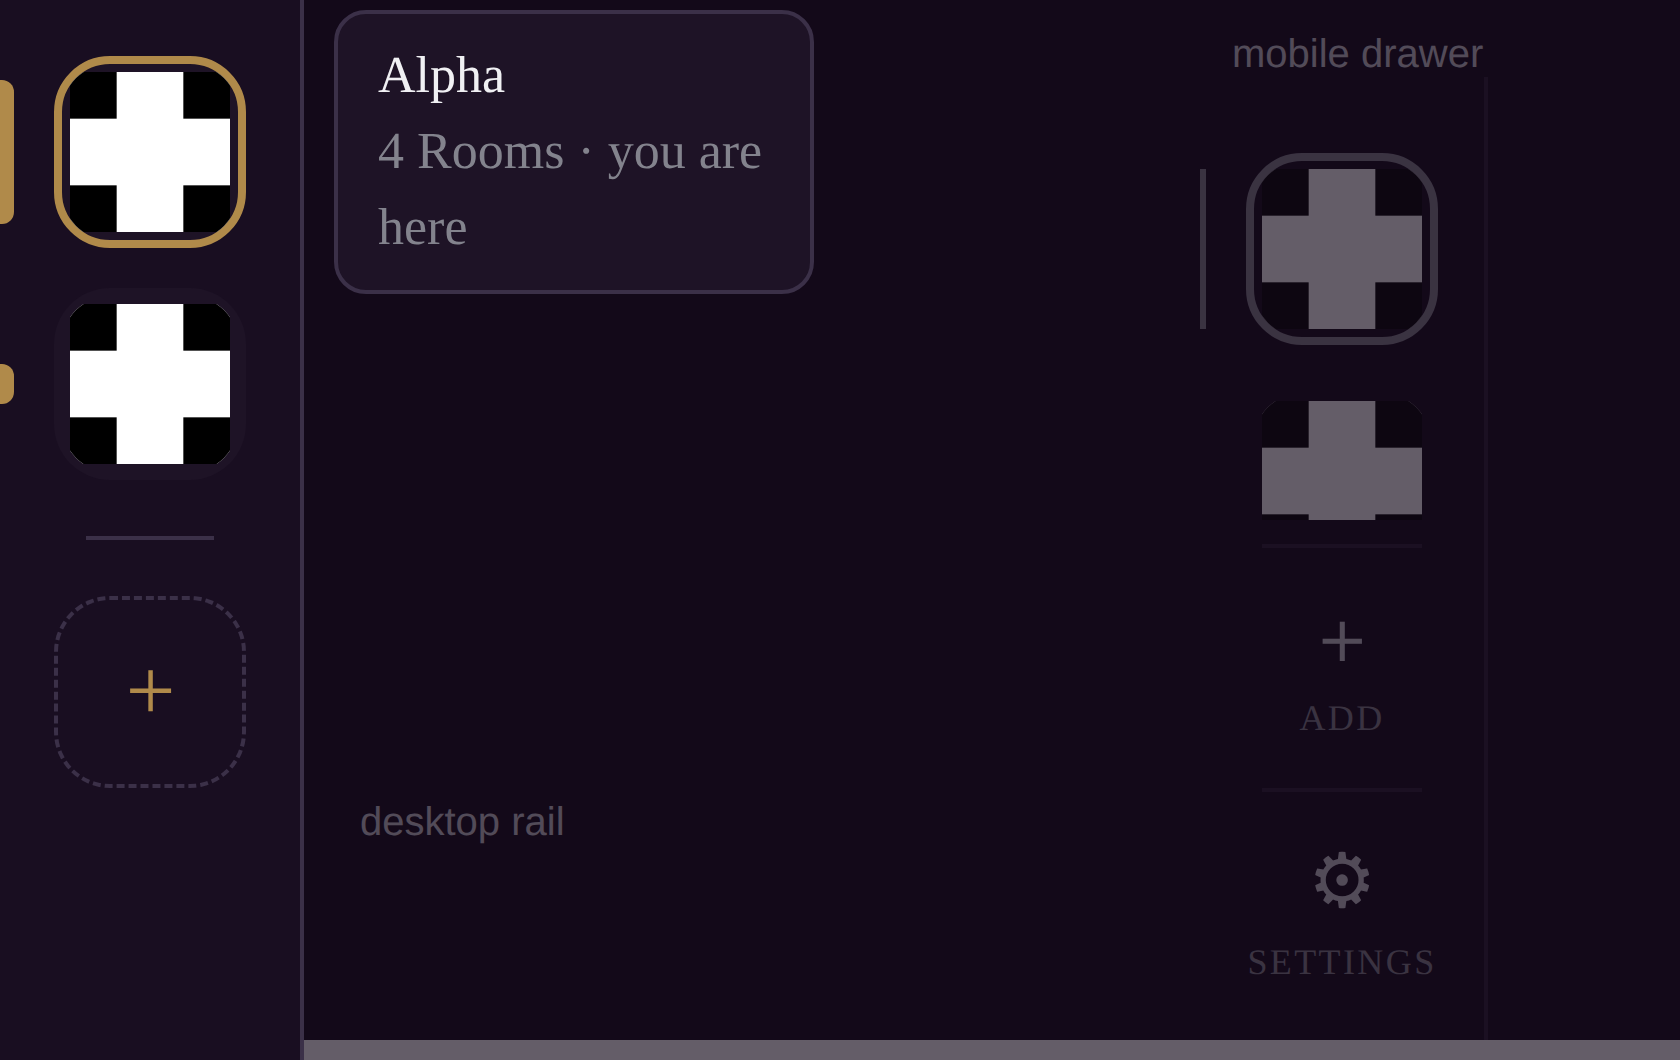
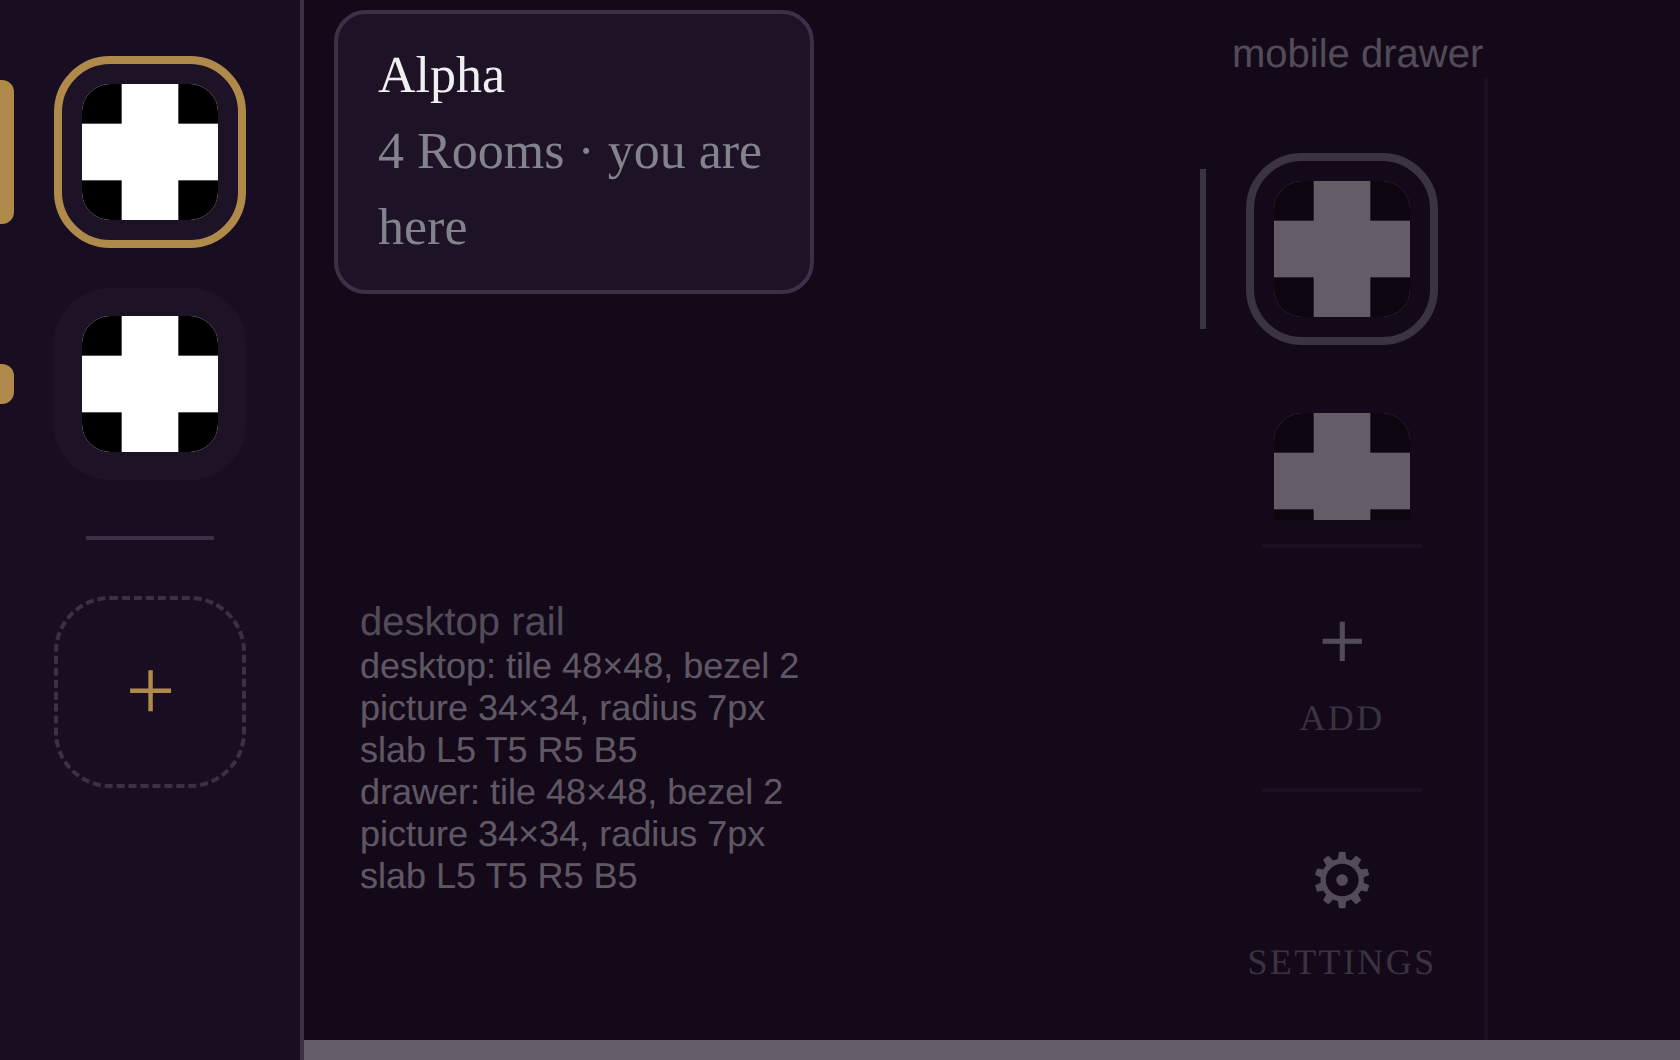
fix(mobile): seat the Workspace picture inside the tile bezel instead of clipping it
Owner direction after reviewing a to-scale mock: the picture sits INSIDE the
bezel like a picture in a frame, whole picture visible, slab showing all the
way round. Clipping its corners against the bezel is not wanted.

Both rails now use the same numbers on the same 48dp tile with its 2dp brass
bezel, 14dp outer and 12dp inner radius:

  - the picture is 34dp square and centred, so 5dp of slab shows on every side
  - its own corners take 7dp — the inner radius less that margin — so its curve
    stays parallel to the bezel's the whole way round

No corner of the picture touches the bezel on either surface. The generated
Workspace cypher draws well inside the seat, so it keeps the square silhouette
it is meant to have, and IdentityMark's face-plate clip is untouched.

The render proof now also measures what painted — tile size, bezel width,
picture size and radius, and the slab margin on each side — so the geometry
is readable in the capture rather than eyeballed.

diff --git a/apps/mobile/sources/components/buzz/CommunityRail.tsx b/apps/mobile/sources/components/buzz/CommunityRail.tsx
@@ -21,14 +21,24 @@ const DRAWER_WIDTH = 72;
 const DRAWER_DURATION_MS = 180;
 
 /**
- * The Workspace tile bezel. The picture inside is square, so the tile has to
- * clip it or its corners paint outside the bezel. A border eats into the
- * curve, so the radius the content is clipped at is the outer radius LESS the
- * border width, not the outer radius.
+ * The Workspace tile bezel. A border eats into the curve, so the radius inside
+ * the bezel is the outer radius LESS the border width. Same numbers as the
+ * desktop rail (`DesktopWorkspaceRail`), which wears this same tile.
  */
+const TILE_SIZE = 48;
 const TILE_RADIUS = 14;
 const TILE_BORDER_WIDTH = 2;
 const TILE_INNER_RADIUS = TILE_RADIUS - TILE_BORDER_WIDTH;
+/**
+ * The picture is seated in the bezel like a picture in a frame, not clipped
+ * against it: the whole picture stays visible with slab showing all the way
+ * round, and no corner of it touches the brass. Its own radius is the inner
+ * radius less that margin, which keeps its curve parallel to the bezel's the
+ * whole way round instead of tightening into the corners.
+ */
+const TILE_PICTURE_SIZE = 34;
+const TILE_PICTURE_MARGIN = (TILE_SIZE - TILE_BORDER_WIDTH * 2 - TILE_PICTURE_SIZE) / 2;
+const TILE_PICTURE_RADIUS = TILE_INNER_RADIUS - TILE_PICTURE_MARGIN;
 
 export type CommunityRailItem = {
   communityId: string;
@@ -230,26 +240,26 @@ export function CommunityRail({
                   style={[styles.columnLogoPlate, active && styles.columnLogoPlateSelected]}
                   testID={`workspace-tile-plate-${community.communityId}`}
                 >
-                  <View style={styles.tileClip}>
+                  <View style={styles.tilePictureSeat}>
                     <IdentityMark
                       kind="workspace"
                       seed={community?.communityId ?? 'workspace-loading'}
                       avatarUrl={community?.avatar}
                       name={community?.name}
-                      size={40}
+                      size={TILE_PICTURE_SIZE}
                       selected={active}
                       testID={`workspace-avatar-${community.communityId}`}
                     />
                   </View>
                 </View>
               ) : (
-                <View style={styles.tileClip}>
+                <View style={styles.tilePictureSeat}>
                   <IdentityMark
                     kind="workspace"
                     seed={community?.communityId ?? 'workspace-loading'}
                     avatarUrl={community?.avatar}
                     name={community?.name}
-                    size={40}
+                    size={TILE_PICTURE_SIZE}
                     selected={active}
                     testID={`workspace-avatar-${community.communityId}`}
                   />
@@ -572,23 +582,24 @@ const styles = StyleSheet.create((theme) => {
       alignItems: 'flex-start',
     },
     railButton: {
-      width: 48,
-      height: 48,
+      width: TILE_SIZE,
+      height: TILE_SIZE,
       alignItems: 'center',
       justifyContent: 'center',
       borderRadius: TILE_RADIUS,
       borderWidth: TILE_BORDER_WIDTH,
       borderColor: 'transparent',
     },
-    /* The bezel's content box. A Workspace picture is square, so without this
-     * its corners paint outside the tile. The clip follows the border's INNER
-     * curve, which is the outer radius less the border width. */
-    tileClip: {
-      alignSelf: 'stretch',
-      flex: 1,
+    /* The picture's seat: square, centred, and rounded parallel to the bezel.
+     * It rounds the picture's own corners; the generated Workspace cypher draws
+     * well inside this box, so it keeps the square silhouette it is meant to
+     * have. */
+    tilePictureSeat: {
+      width: TILE_PICTURE_SIZE,
+      height: TILE_PICTURE_SIZE,
       alignItems: 'center',
       justifyContent: 'center',
-      borderRadius: TILE_INNER_RADIUS,
+      borderRadius: TILE_PICTURE_RADIUS,
       overflow: 'hidden',
     },
     columnButton: {

diff --git a/apps/mobile/sources/components/buzz/DesktopWorkspaceRail.tsx b/apps/mobile/sources/components/buzz/DesktopWorkspaceRail.tsx
@@ -16,20 +16,23 @@ const RAIL_WIDTH = 76;
 const TILE_SIZE = 48;
 
 /**
- * The Workspace tile bezel. The picture inside is square, so the tile has to
- * clip it or its corners stay hard while the tile is round. A border eats into
- * the curve, so the radius the content is clipped at is the outer radius LESS
- * the border width, not the outer radius. Same three numbers as the mobile
- * drawer (`CommunityRail`), which wears this same tile.
+ * The Workspace tile bezel. A border eats into the curve, so the radius inside
+ * the bezel is the outer radius LESS the border width. Same numbers as the
+ * mobile drawer (`CommunityRail`), which wears this same tile.
  */
 const TILE_RADIUS = 14;
 const TILE_BORDER_WIDTH = 2;
 const TILE_INNER_RADIUS = TILE_RADIUS - TILE_BORDER_WIDTH;
-/** The bezel's content box: the tile less its border on both edges. */
-const TILE_CLIP_SIZE = TILE_SIZE - TILE_BORDER_WIDTH * 2;
-/** The mark inside that box, at the drawer's 40-in-44 geometry: a picture wide
- *  enough to meet the bezel, which is what gives the clip something to cut. */
-const TILE_MARK_SIZE = 40;
+/**
+ * The picture is seated in the bezel like a picture in a frame, not clipped
+ * against it: the whole picture stays visible with slab showing all the way
+ * round, and no corner of it touches the brass. Its own radius is the inner
+ * radius less that margin, which keeps its curve parallel to the bezel's the
+ * whole way round instead of tightening into the corners.
+ */
+const TILE_PICTURE_SIZE = 34;
+const TILE_PICTURE_MARGIN = (TILE_SIZE - TILE_BORDER_WIDTH * 2 - TILE_PICTURE_SIZE) / 2;
+const TILE_PICTURE_RADIUS = TILE_INNER_RADIUS - TILE_PICTURE_MARGIN;
 
 export type DesktopWorkspaceRailItem = {
   readonly id: string;
@@ -186,13 +189,13 @@ export function DesktopWorkspaceRail({
                     ]}
                     testID={`desktop-workspace-tile-${workspace.id}`}
                   >
-                    <View style={styles.tileClip}>
+                    <View style={styles.tilePictureSeat}>
                       <IdentityMark
                         avatarUrl={workspace.avatar}
                         kind="workspace"
                         name={workspace.name}
                         seed={workspace.id}
-                        size={TILE_MARK_SIZE}
+                        size={TILE_PICTURE_SIZE}
                         testID={`desktop-workspace-mark-${workspace.id}`}
                       />
                     </View>
@@ -289,17 +292,17 @@ const stylesheet = StyleSheet.create((theme) => {
       backgroundColor: hull.bgHighlight,
       outlineStyle: 'none',
     } as any,
-    /* The bezel's content box. A Workspace picture is square, so without this
-     * its corners stay hard inside a round tile. The clip follows the border's
-     * INNER curve, which is the outer radius less the border width. It is the
-     * tile's content box whether or not the tile is currently wearing its
-     * bezel, so the mark does not move when a Workspace becomes current. */
-    tileClip: {
-      width: TILE_CLIP_SIZE,
-      height: TILE_CLIP_SIZE,
+    /* The picture's seat: square, centred, and rounded parallel to the bezel.
+     * It rounds the picture's own corners; the generated Workspace cypher draws
+     * well inside this box, so it keeps the square silhouette it is meant to
+     * have. Centred in the tile, so the seat does not move when a Workspace
+     * becomes current and the tile puts its bezel on. */
+    tilePictureSeat: {
+      width: TILE_PICTURE_SIZE,
+      height: TILE_PICTURE_SIZE,
       alignItems: 'center',
       justifyContent: 'center',
-      borderRadius: TILE_INNER_RADIUS,
+      borderRadius: TILE_PICTURE_RADIUS,
       overflow: 'hidden',
     },
     currentTile: { borderWidth: 2, borderColor: hull.accent },

diff --git a/apps/mobile/sources/components/buzz/workspace-nav-parity.contract.test.ts b/apps/mobile/sources/components/buzz/workspace-nav-parity.contract.test.ts
@@ -8,14 +8,12 @@ const desktopRail = readFileSync(new URL('./DesktopWorkspaceRail.tsx', import.me
 describe('workspace nav parity (mobile drawer ↔ desktop rail)', () => {
   it('draws the mobile drawer tile with the desktop radius and brass bezel', () => {
     // 48px tile, 14px radius — the desktop tile geometry, named once here
-    // because the square picture inside has to be clipped to the border's
-    // inner curve and the two numbers must not be able to drift apart.
+    // because the picture seated inside it is measured off the border's inner
+    // curve and the two numbers must not be able to drift apart.
     expect(rail).toContain('const TILE_RADIUS = 14');
     expect(rail).toContain('const TILE_BORDER_WIDTH = 2');
     expect(rail).toContain('const TILE_INNER_RADIUS = TILE_RADIUS - TILE_BORDER_WIDTH');
     expect(rail).toContain('borderRadius: TILE_RADIUS');
-    expect(rail).toContain('borderRadius: TILE_INNER_RADIUS');
-    expect(rail).toContain("overflow: 'hidden'");
     // The current workspace wears the 2px brass bezel; idle tiles sit at
     // full strength (no opacity fade — the bezel is the whole story).
     expect(rail).toContain('railButtonCurrent: {\n      borderWidth: 2,\n      borderColor: groknight.selectedBorder,');
@@ -41,12 +39,25 @@ describe('workspace nav parity (mobile drawer ↔ desktop rail)', () => {
     expect(desktopRail).toContain('currentTile: { borderWidth: 2, borderColor: hull.accent }');
   });
 
-  it('clips the desktop rail picture to the same bezel the drawer clips to', () => {
-    // Both rails wear the one tile, so both name the same three numbers and
-    // clip their square Workspace picture to the border's inner curve.
-    expect(desktopRail).toContain('const TILE_BORDER_WIDTH = 2');
-    expect(desktopRail).toContain('const TILE_INNER_RADIUS = TILE_RADIUS - TILE_BORDER_WIDTH');
-    expect(desktopRail).toContain('borderRadius: TILE_INNER_RADIUS');
-    expect(desktopRail).toContain("overflow: 'hidden'");
+  it('seats the Workspace picture inside the bezel identically on both rails', () => {
+    // A picture in a frame, not a picture cropped by one: 34px square centred
+    // in the 44px box inside the bezel leaves 5px of slab on every side, and
+    // the picture's own 7px radius (12 - 5) keeps its curve parallel to the
+    // bezel's. Both rails wear the one tile, so both name the same numbers.
+    for (const source of [rail, desktopRail]) {
+      expect(source).toContain('const TILE_BORDER_WIDTH = 2');
+      expect(source).toContain('const TILE_INNER_RADIUS = TILE_RADIUS - TILE_BORDER_WIDTH');
+      expect(source).toContain('const TILE_PICTURE_SIZE = 34');
+      expect(source).toContain(
+        'const TILE_PICTURE_MARGIN = (TILE_SIZE - TILE_BORDER_WIDTH * 2 - TILE_PICTURE_SIZE) / 2',
+      );
+      expect(source).toContain(
+        'const TILE_PICTURE_RADIUS = TILE_INNER_RADIUS - TILE_PICTURE_MARGIN',
+      );
+      expect(source).toContain('borderRadius: TILE_PICTURE_RADIUS');
+      expect(source).toContain("overflow: 'hidden'");
+      // The old treatment cropped the picture against the bezel itself.
+      expect(source).not.toContain('borderRadius: TILE_INNER_RADIUS,');
+    }
   });
 });

diff --git a/apps/mobile/scripts/workspace-picture-clip-proof.tsx b/apps/mobile/scripts/workspace-picture-clip-proof.tsx
@@ -25,6 +25,45 @@ const workspaces = [
   { id: 'bravo', name: 'Bravo', avatar: PICTURE, roomCount: 1, needsAttention: true },
 ];
 
+/**
+ * Measures what actually painted: the picture's box against the tile it sits
+ * in, and the picture's own corner radius. A seated picture shows the same
+ * margin of slab on every side and never reaches the bezel.
+ */
+function SeatReadout({ tile, mark, name }: { tile: string; mark: string; name: string }) {
+  const [lines, setLines] = React.useState<string[]>([]);
+  React.useEffect(() => {
+    const frame = requestAnimationFrame(() => {
+      const tileNode = document.querySelector(`[data-testid="${tile}"]`);
+      const markNode = document.querySelector(`[data-testid="${mark}"]`);
+      if (!tileNode || !markNode) return;
+      const tileBox = tileNode.getBoundingClientRect();
+      const markBox = markNode.getBoundingClientRect();
+      const bezel = parseFloat(getComputedStyle(tileNode).borderTopWidth) || 0;
+      const radius = getComputedStyle(markNode.parentElement!).borderTopLeftRadius;
+      const round = (value: number) => Math.round(value * 100) / 100;
+      setLines([
+        `${name}: tile ${round(tileBox.width)}×${round(tileBox.height)}, bezel ${bezel}`,
+        `picture ${round(markBox.width)}×${round(markBox.height)}, radius ${radius}`,
+        `slab L${round(markBox.left - tileBox.left - bezel)} ` +
+          `T${round(markBox.top - tileBox.top - bezel)} ` +
+          `R${round(tileBox.right - bezel - markBox.right)} ` +
+          `B${round(tileBox.bottom - bezel - markBox.bottom)}`,
+      ]);
+    });
+    return () => cancelAnimationFrame(frame);
+  }, [mark, name, tile]);
+  return (
+    <>
+      {lines.map((line) => (
+        <Text key={line} style={readout}>
+          {line}
+        </Text>
+      ))}
+    </>
+  );
+}
+
 const page = {
   backgroundColor: groknight.bgVoid,
   flexDirection: 'row',
@@ -33,6 +72,7 @@ const page = {
 const desktopSlot = { width: 300, height: 260 } as const;
 const drawerSlot = { width: 120, height: 260, paddingTop: 8 } as const;
 const label = { color: groknight.textSecondary, fontSize: 10, paddingLeft: 8 } as const;
+const readout = { color: groknight.textPrimary, fontSize: 9, paddingLeft: 8 } as const;
 
 const root = createRoot(document.getElementById('root')!);
 root.render(
@@ -46,7 +86,15 @@ root.render(
         open
         workspaces={workspaces}
       />
-      <Text style={[label, { paddingLeft: 90, paddingTop: 200 }]}>desktop rail</Text>
+      <View style={{ paddingLeft: 82, paddingTop: 150 } as const}>
+        <Text style={label}>desktop rail</Text>
+        <SeatReadout
+          mark="desktop-workspace-mark-alpha"
+          name="desktop"
+          tile="desktop-workspace-tile-alpha"
+        />
+        <SeatReadout mark="workspace-avatar-alpha" name="drawer" tile="community-rail-alpha" />
+      </View>
     </View>
     <View style={drawerSlot}>
       <Text style={label}>mobile drawer</Text>

diff --git a/apps/mobile/sources/components/buzz/DesktopWorkspaceRail.test.tsx b/apps/mobile/sources/components/buzz/DesktopWorkspaceRail.test.tsx
@@ -137,26 +137,33 @@ describe('desktop Workspace rail', () => {
     ).toBe('Bravo, 1 Rooms, needs you');
   });
 
-  it('clips the Workspace picture to the tile bezel at the inner radius', () => {
+  it('seats the whole Workspace picture inside the bezel, cropping nothing', () => {
     const tree = renderRail();
     const mark = tree.root.findByProps({ testID: 'desktop-workspace-mark-alpha' });
-    const clip = tree.root
+    const seat = tree.root
       .findAllByType('View' as any)
       .find((node: any) =>
         node.props.style?.overflow === 'hidden' &&
         node.findAllByProps({ testID: 'desktop-workspace-mark-alpha' }).length > 0,
       );
 
-    // 48px tile, 2px bezel: the content box is 44 and its curve is 14 - 2.
-    // A picture that stopped short of that curve would be clipped by nothing,
-    // so the mark has to fill the box for the clip to mean anything.
-    expect(clip?.props.style).toMatchObject({
-      width: 44,
-      height: 44,
-      borderRadius: 12,
+    // 48px tile, 2px bezel: the box inside the bezel is 44. A 34px picture
+    // centred there leaves 5px of slab on every side, and its own 12 - 5 = 7px
+    // radius keeps its curve parallel to the bezel's rather than cut by it.
+    const tileSize = 48;
+    const bezelWidth = 2;
+    const innerBox = tileSize - bezelWidth * 2;
+    const margin = (innerBox - (seat?.props.style.width ?? 0)) / 2;
+
+    expect(seat?.props.style).toMatchObject({
+      width: 34,
+      height: 34,
+      borderRadius: 7,
       overflow: 'hidden',
     });
-    expect(mark.props.size).toBe(40);
+    expect(margin).toBe(5);
+    expect(margin).toBeGreaterThan(0); // no corner of the picture touches brass
+    expect(mark.props.size).toBe(34);
   });
 
   it('reveals the name and Room count on hover or focus', () => {
